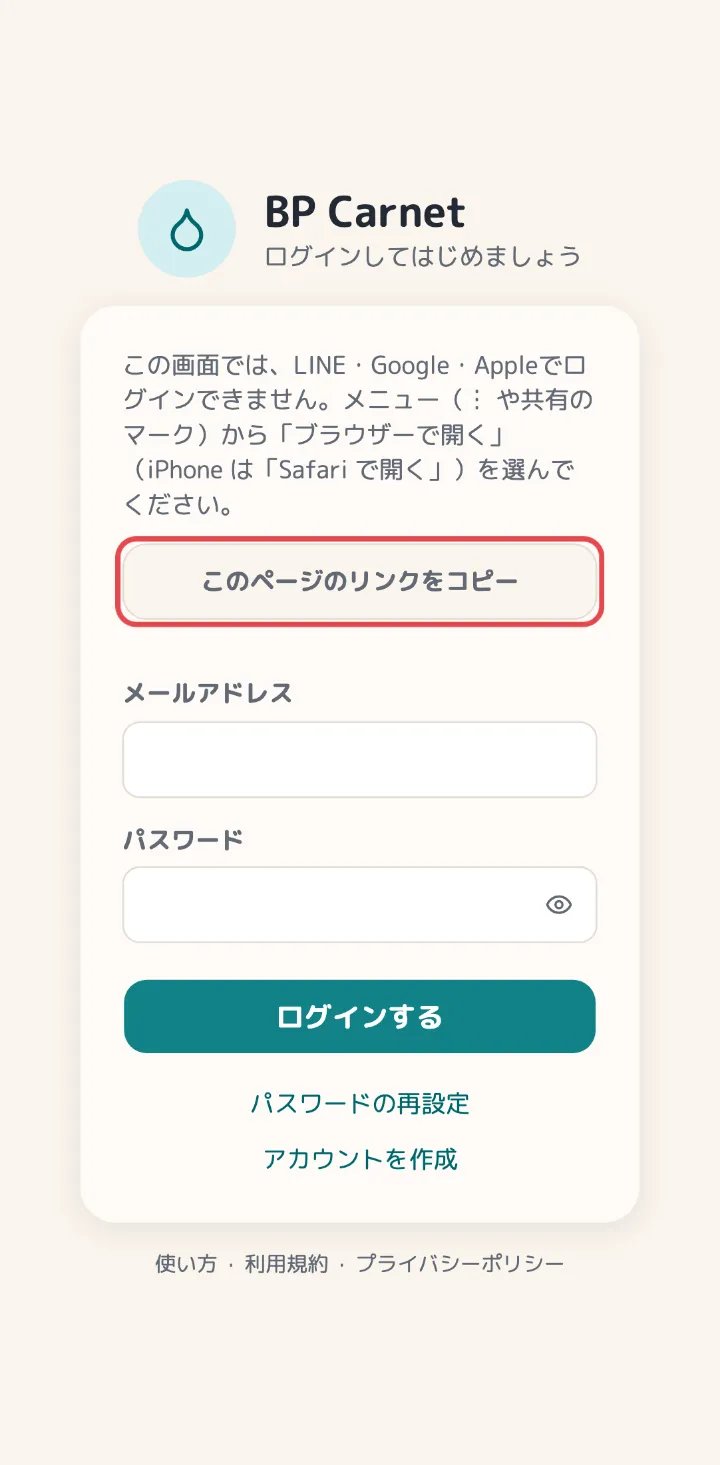
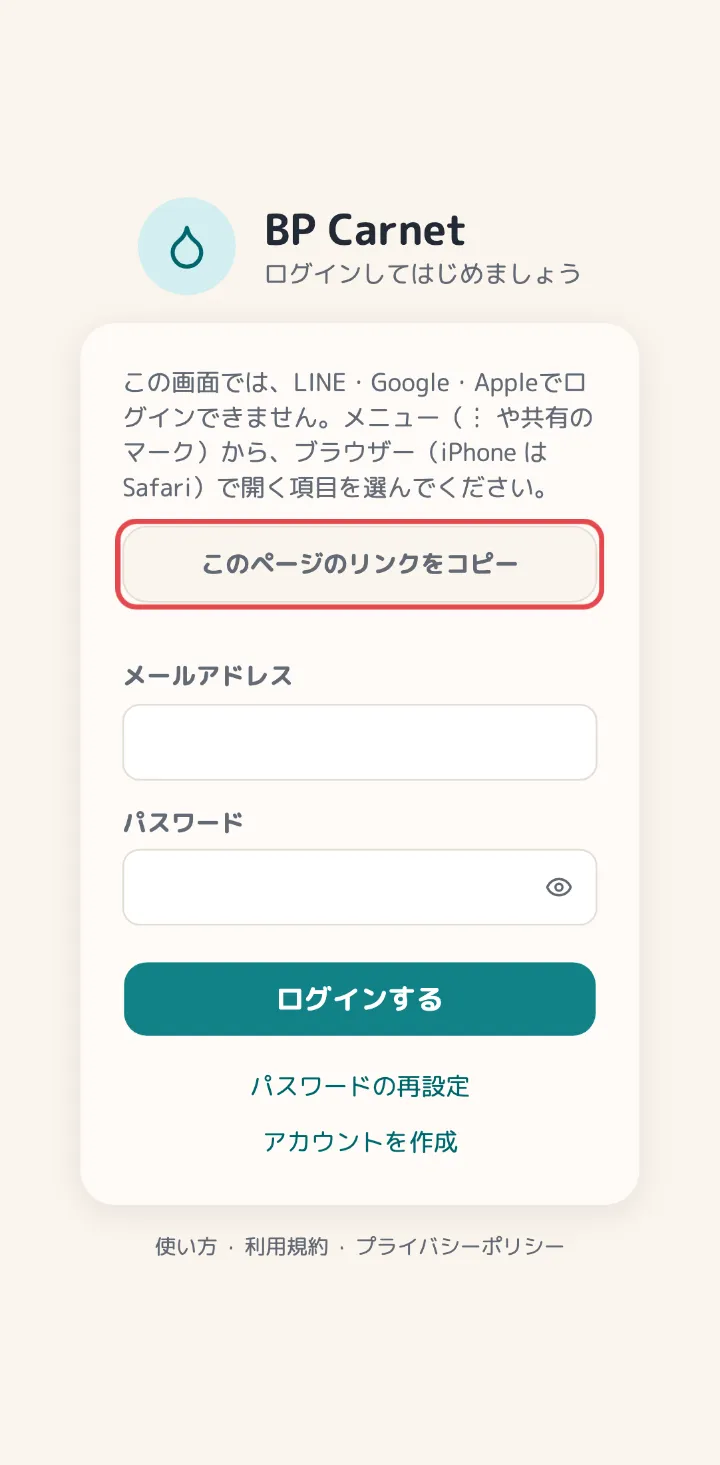
内蔵ブラウザーの案内で、メニューの項目を実在の名前のように書かない (#18)
「ブラウザーで開く」「Safari で開く」とかぎかっこで書いていたが、項目の名前はアプリや版で違う（LINE は「他のアプリで開く」など）。働きで言い表し、使い方には名前が違うことを添える。

diff --git a/frontend/src/lib/help/ja/trouble-in-app-browser.md b/frontend/src/lib/help/ja/trouble-in-app-browser.md
@@ -16,7 +16,7 @@ LINE やメールのリンクを押すと、アプリの中の簡易な画面（
 
 <HelpStep n={2} image={false}>
 
-画面のメニュー（︙ や共有のマーク）から「ブラウザーで開く」（iPhone は「Safari で開く」）を選びます。
+画面のメニュー（︙ や共有のマーク）から、ブラウザー（iPhone は Safari）で開く項目を選びます。項目の名前は、アプリや版によって違います。
 
 </HelpStep>
 
